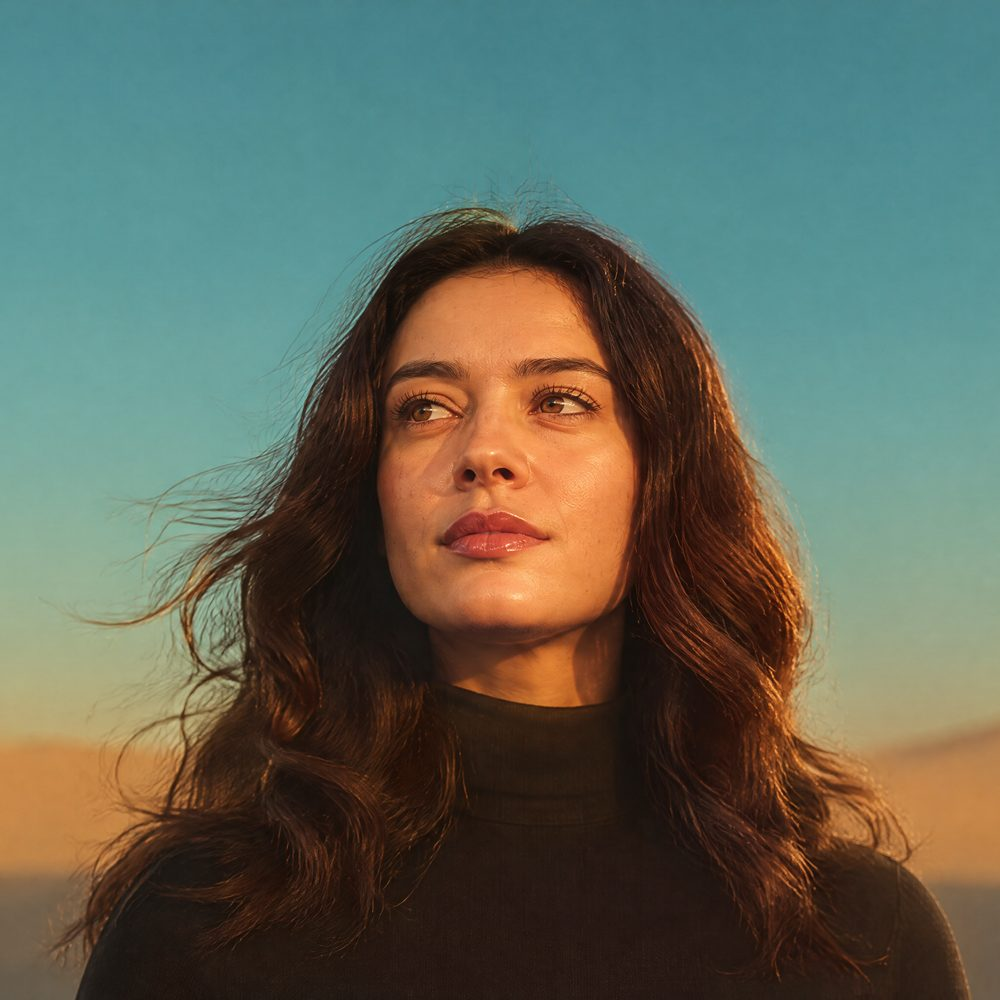
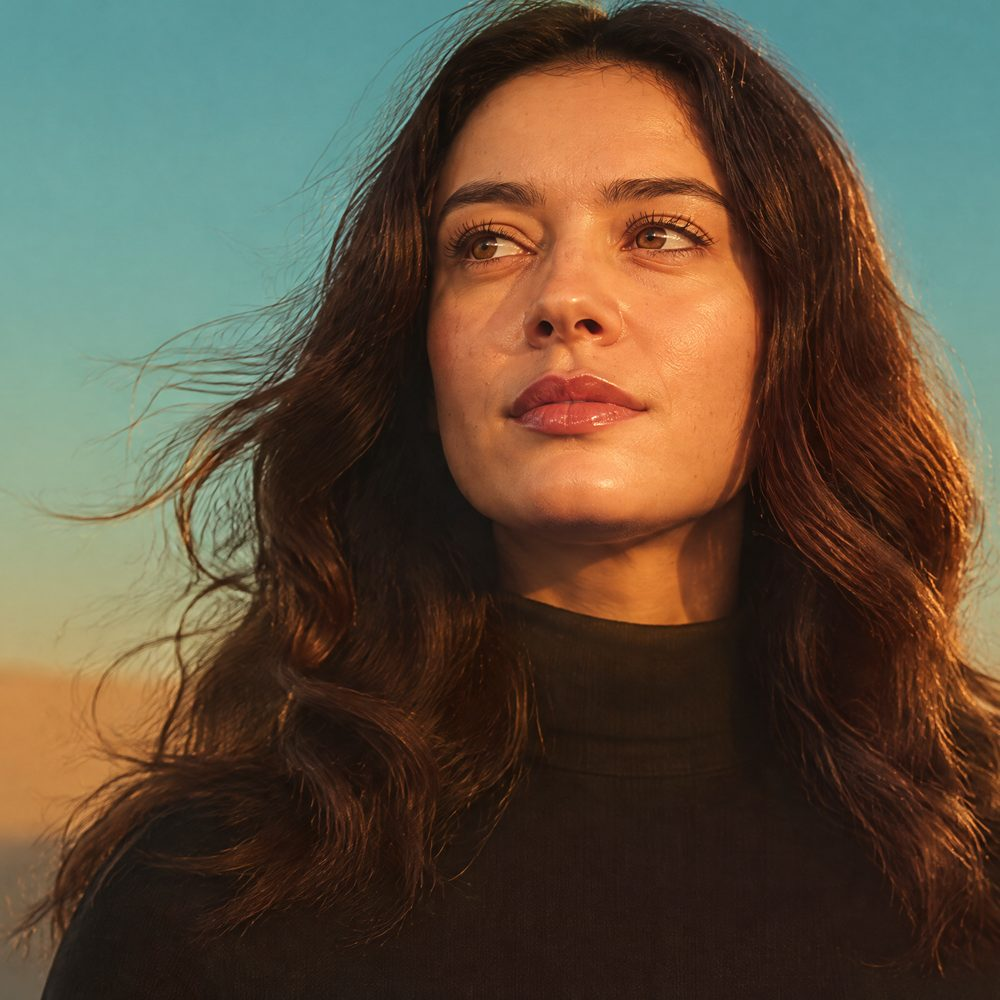
Nav card: new crop of the sunset portrait, square on phones too
The head sits in the upper right with the chin near the centre. On phones
the card keeps its 1:1 shape instead of shrinking to its content.

diff --git a/css/main.css b/css/main.css
@@ -170,9 +170,6 @@ h6, .h6 { font-size: var(--fs-h6); line-height: 1.3; letter-spacing: -0.02em; }
   width: 100%;
   height: 100%;
   object-fit: cover;
-  /* The face sits above the middle: kept in view when the card is wide and
-     short (phones). */
-  object-position: 50% 35%;
   border-radius: inherit;
 }
 /* The shade: clear at the top, darker towards the text at the bottom. */
@@ -209,7 +206,7 @@ h6, .h6 { font-size: var(--fs-h6); line-height: 1.3; letter-spacing: -0.02em; }
 }
 
 /* Phones: the card shows too (Osmo hides the visual column there), under
-   the links, full width and only as tall as its content. */
+   the links, full width and square, as on larger screens. */
 @media screen and (max-width: 767px) {
   .twostep-nav__bottom-row {
     flex-direction: column;
@@ -224,7 +221,6 @@ h6, .h6 { font-size: var(--fs-h6); line-height: 1.3; letter-spacing: -0.02em; }
     width: 100%;
     min-height: 0;
   }
-  .twostep-nav__visual.nav-card { aspect-ratio: auto; }
 }
 
 /* ============================================
